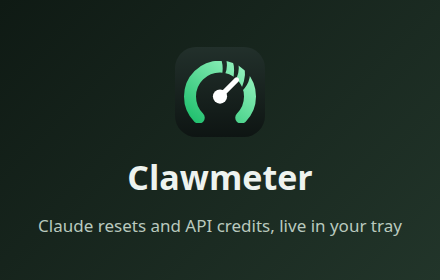
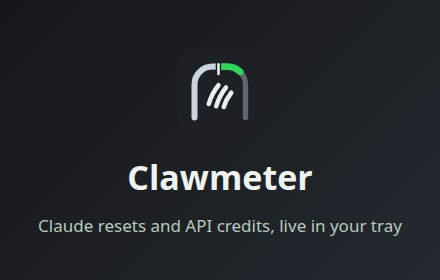
feat(tray): one line per problem, hide idle windows, flag quotas that run out
A provider with only an error now shows it on its name row. Windows with
nothing used and nothing projected are hidden when the provider has other
rows. A window projected to run out before reset starts with a warning sign
and drops the repeated '(… before reset)'. A provider that reports nothing
says so instead of showing a bare name.

The extension icon now uses the tray's Claw Frame: the open U pace scale in
the tray palette with claw marks where the tray puts the provider mark. The
store images use the same graphite and show the new menu.

Changed region(s): [[0.4136, 0.2, 0.5909, 0.4571]]

diff --git a/assets/chrome-web-store/screenshot.html b/assets/chrome-web-store/screenshot.html
@@ -1,5 +1,5 @@
 <!doctype html><html><head><meta charset="utf-8"><style>
-html,body{margin:0;width:1280px;height:800px;background:linear-gradient(135deg,#0f1a14,#1b2a22 60%,#22352a);font-family:"Inter","Segoe UI",system-ui,sans-serif;color:#eef3ef;overflow:hidden}
+html,body{margin:0;width:1280px;height:800px;background:linear-gradient(135deg,#14171b,#1d2126 60%,#252a30);font-family:"Inter","Segoe UI",system-ui,sans-serif;color:#eef3ef;overflow:hidden}
 .wrap{display:flex;align-items:center;gap:64px;padding:0 88px;height:100%}
 .left{flex:1}
 .brand{display:flex;align-items:center;gap:18px;margin-bottom:36px}
@@ -9,7 +9,9 @@ h1{font-size:50px;line-height:1.12;margin:0 0 24px;font-weight:750}
 p{font-size:23px;line-height:1.5;color:#b9c9be;margin:0 0 14px}
 .menu{width:560px;background:#1f2226;border:1px solid #3a3f45;border-radius:10px;box-shadow:0 30px 80px rgba(0,0,0,.55);font-family:"DejaVu Sans","Segoe UI",sans-serif;font-size:17px;padding:10px 0}
 .menu div{padding:9px 20px;color:#e8e8e8;white-space:nowrap}
-.menu .h{color:#9aa3ab}
+.menu .t{color:#7d858d}
+.menu .h{color:#eef1f4;display:flex;align-items:center;gap:10px}
+.menu .h img{width:20px;height:20px;border-radius:50%;background:#f6f8fa;padding:3px;box-sizing:border-box}
 .menu .d{color:#9aa3ab}
 .menu .hi{color:#7ee2a0}
 .menu hr{border:0;border-top:1px solid #3a3f45;margin:6px 0}
@@ -21,17 +23,18 @@ p{font-size:23px;line-height:1.5;color:#b9c9be;margin:0 0 14px}
 <p>Sends them only to the Clawmeter app on your computer.</p>
 </div>
 <div class="menu">
-<div class="h">Claude · Default</div>
-<div class="d">5h: 17% — 2h37m — 31% ahead</div>
-<div class="d">7d All: 10% — 6d5h — on pace</div>
-<div class="hi">Resets: 1 · expires Oct 22 · checked 12:53</div>
-<div class="hi">API credits: $199.88 left · spent $0.11 this month</div>
-<div class="d">on pace to spend $1.84 more before it expires Oct 24</div>
-<div>Open Claude Dashboard</div>
+<div class="t">Clawmeter</div>
 <hr>
-<div class="h">Claude API · Side Project</div>
-<div class="hi">API credits: $42.10 left · checked 12:53</div>
+<div class="h"><img src="../../internal/tray/icons/provider-claude.png">Claude · Default</div>
+<div class="hi">Resets: 1 · expires Oct 22</div>
+<div class="d">5 hours: 17% · resets in 2h37m · est. 48% at reset</div>
+<div class="d">7 days (all models): 10% · resets in 6d5h · est. 40% at reset</div>
+<div class="hi">API credits: $199.88 left · spent $0.11 this month</div>
+<hr>
+<div class="h"><img src="../../internal/tray/icons/provider-claude.png">Claude API · Side Project</div>
+<div class="hi">$42.10 left · spent $3.20 this month</div>
 <hr>
 <div>Refresh Now</div>
+<div>Settings</div>
 </div>
 </div></body></html>

diff --git a/assets/chrome-web-store/promo-tile.html b/assets/chrome-web-store/promo-tile.html
@@ -1,5 +1,5 @@
 <!doctype html><html><head><meta charset="utf-8"><style>
-html,body{margin:0;width:440px;height:280px;background:linear-gradient(135deg,#0f1a14,#22352a);font-family:"Inter","Segoe UI",system-ui,sans-serif;color:#eef3ef;overflow:hidden}
+html,body{margin:0;width:440px;height:280px;background:linear-gradient(135deg,#14171b,#252a30);font-family:"Inter","Segoe UI",system-ui,sans-serif;color:#eef3ef;overflow:hidden}
 .w{display:flex;flex-direction:column;align-items:center;justify-content:center;height:100%;gap:14px;text-align:center}
 img{width:96px;height:96px}
 b{font-size:34px}

diff --git a/internal/tray/tray.go b/internal/tray/tray.go
@@ -785,7 +785,7 @@ func hideProviderMenu(menu *providerMenuItems) {
 // showBalanceRows fills the balance rows with balances, then API credit
 // pools, and hides the rest. Pools are browser-checked snapshots, so they
 // stay visible even when the row's usage reading failed.
-func showBalanceRows(menu *providerMenuItems, data *provider.UsageData, balances []provider.UsageBalance) {
+func showBalanceRows(menu *providerMenuItems, data *provider.UsageData, balances []provider.UsageBalance) int {
 	rows := 0
 	show := func(title string) {
 		if rows < len(menu.balanceItems) {
@@ -813,6 +813,7 @@ func showBalanceRows(menu *providerMenuItems, data *provider.UsageData, balances
 	for i := rows; i < len(menu.balanceItems); i++ {
 		setMenuItemVisible(menu.balanceItems[i], &menu.balanceStates[i], false)
 	}
+	return rows
 }
 
 func hideProviderWindows(menu *providerMenuItems) {
@@ -825,7 +826,33 @@ func hideProviderWindows(menu *providerMenuItems) {
 }
 
 func showProviderHeader(menu *providerMenuItems) {
+	setMenuItemTitle(menu.headerItem, &menu.headerState, menu.displayName)
 	setMenuItemVisible(menu.headerItem, &menu.headerState, true)
+}
+
+// showProviderProblem puts a provider's only message on its name row, so a
+// provider without readings takes one line.
+func showProviderProblem(menu *providerMenuItems, problem string) {
+	setMenuItemTitle(menu.headerItem, &menu.headerState, menu.displayName+" · "+problem)
+	setMenuItemVisible(menu.headerItem, &menu.headerState, true)
+	setMenuItemVisible(menu.statusItem, &menu.statusState, false)
+}
+
+// menuWindows drops windows with nothing used and nothing projected, unless
+// that would leave no window to show.
+func menuWindows(windows []provider.UsageWindow) []provider.UsageWindow {
+	active := make([]provider.UsageWindow, 0, len(windows))
+	for _, window := range windows {
+		proj := windowProjection(window)
+		idle := window.Utilization == 0 && (proj.Unknown || proj.ProjectedPct < 0.5)
+		if !idle {
+			active = append(active, window)
+		}
+	}
+	if len(active) == 0 {
+		return windows
+	}
+	return active
 }
 
 func setMenuItemTitle(item *systray.MenuItem, state *menuItemState, title string) {
@@ -1021,7 +1048,6 @@ func updateUI(results map[string]*provider.UsageData, statuses map[string]*statu
 		}
 
 		if data == nil {
-			showProviderHeader(menu)
 			statusTitle := "No data"
 			if connectionStatus != "" {
 				statusTitle = connectionStatus
@@ -1031,8 +1057,7 @@ func updateUI(results map[string]*provider.UsageData, statuses map[string]*statu
 					statusTitle = setup.Detail
 				}
 			}
-			setMenuItemTitle(menu.statusItem, &menu.statusState, statusTitle)
-			setMenuItemVisible(menu.statusItem, &menu.statusState, true)
+			showProviderProblem(menu, statusTitle)
 			hideProviderWindows(menu)
 			setProviderSeparatorVisible(menu, true)
 			continue
@@ -1042,7 +1067,6 @@ func updateUI(results map[string]*provider.UsageData, statuses map[string]*statu
 			if menu.provider.Name() == "claude" {
 				hasExpiredClaude = true
 			}
-			showProviderHeader(menu)
 			hideProviderWindows(menu)
 			expiredMsg := "Token expired"
 			if connectionStatus != "" {
@@ -1053,18 +1077,15 @@ func updateUI(results map[string]*provider.UsageData, statuses map[string]*statu
 					expiredMsg = format.HumanizeError(data.Error)
 				}
 			}
-			setMenuItemTitle(menu.statusItem, &menu.statusState, expiredMsg)
-			setMenuItemVisible(menu.statusItem, &menu.statusState, true)
+			showProviderProblem(menu, expiredMsg)
 			showBalanceRows(menu, data, nil)
 			setProviderSeparatorVisible(menu, true)
 			continue
 		}
 
 		if data.Error != "" {
-			showProviderHeader(menu)
 			hideProviderWindows(menu)
-			setMenuItemTitle(menu.statusItem, &menu.statusState, format.HumanizeError(data.Error))
-			setMenuItemVisible(menu.statusItem, &menu.statusState, true)
+			showProviderProblem(menu, format.HumanizeError(data.Error))
 			showBalanceRows(menu, data, nil)
 			setProviderSeparatorVisible(menu, true)
 			continue
@@ -1085,7 +1106,7 @@ func updateUI(results map[string]*provider.UsageData, statuses map[string]*statu
 			setMenuItemVisible(menu.statusItem, &menu.statusState, false)
 		}
 
-		windows := data.PresentationWindows()
+		windows := menuWindows(data.PresentationWindows())
 		for i, window := range windows {
 			if i >= len(menu.windowItems) {
 				break
@@ -1099,7 +1120,10 @@ func updateUI(results map[string]*provider.UsageData, statuses map[string]*statu
 		for i := len(windows); i < len(menu.windowItems); i++ {
 			setMenuItemVisible(menu.windowItems[i], &menu.windowStates[i], false)
 		}
-		showBalanceRows(menu, data, data.Balances)
+		balanceRows := showBalanceRows(menu, data, data.Balances)
+		if len(windows) == 0 && balanceRows == 0 && len(statusParts) == 0 && !menu.resetState.visible {
+			showProviderProblem(menu, "no usage reported")
+		}
 		setProviderSeparatorVisible(menu, true)
 	}
 
@@ -1914,7 +1938,20 @@ func trayWindowStatus(window provider.UsageWindow) string {
 		return row + " · " + window.ResetPolicy
 	}
 	proj := forecast.Project(window.Utilization, window.ResetsAt, forecast.WindowLength(window))
-	return row + " · resets in " + format.FormatDuration(time.Until(window.ResetsAt)) + " · " + proj.PaceIndicator()
+	row += " · resets in " + format.FormatDuration(time.Until(window.ResetsAt))
+	if proj.Unknown || proj.Stale {
+		return row + " · " + proj.PaceIndicator()
+	}
+	row += " · " + forecast.PaceLabel(proj.ProjectedPct)
+	if proj.WillLastToReset {
+		return row
+	}
+	if proj.RunsOutIn > 0 {
+		row += " · runs out in " + format.FormatDuration(proj.RunsOutIn)
+	} else {
+		row += " · out now"
+	}
+	return "⚠ " + row
 }
 
 func compactProjectionEstimate(proj forecast.Projection) string {

diff --git a/internal/tray/tray_test.go b/internal/tray/tray_test.go
@@ -1731,3 +1731,27 @@ func TestTrayWindowRowsShareOneSeparatorStyle(t *testing.T) {
 		t.Fatalf("unreported row = %q", got)
 	}
 }
+
+func TestTrayWindowRowFlagsAWindowThatRunsOutBeforeReset(t *testing.T) {
+	window := provider.UsageWindow{Name: "seven_day", Length: 7 * 24 * time.Hour, Utilization: 86, ResetsAt: time.Now().Add(34 * time.Hour)}
+	got := trayWindowStatus(window)
+	if !strings.HasPrefix(got, "⚠ ") || !strings.Contains(got, " · runs out in ") || strings.Contains(got, "before reset") {
+		t.Fatalf("at-risk row = %q", got)
+	}
+	window.Utilization = 10
+	if got := trayWindowStatus(window); strings.HasPrefix(got, "⚠") || strings.Contains(got, "runs out") {
+		t.Fatalf("safe row = %q", got)
+	}
+}
+
+func TestMenuWindowsDropIdleWindowsButNeverAll(t *testing.T) {
+	soon := time.Now().Add(24 * time.Hour)
+	used := provider.UsageWindow{Name: "seven_day", Length: 7 * 24 * time.Hour, Utilization: 40, ResetsAt: soon}
+	idle := provider.UsageWindow{Name: "seven_day_fable", Length: 7 * 24 * time.Hour, Utilization: 0, ResetsAt: soon}
+	if got := menuWindows([]provider.UsageWindow{used, idle}); len(got) != 1 || got[0].Name != used.Name {
+		t.Fatalf("windows = %+v", got)
+	}
+	if got := menuWindows([]provider.UsageWindow{idle}); len(got) != 1 {
+		t.Fatalf("an all-idle provider lost its rows: %+v", got)
+	}
+}
